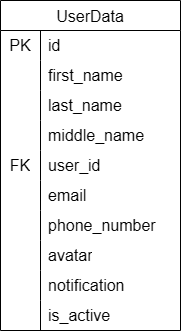
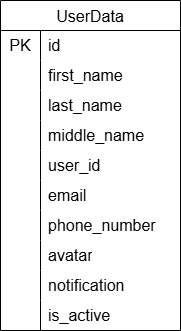
Поправил

diff --git a/S2/doc.md b/S2/doc.md
@@ -4,16 +4,16 @@
 
 ### Информация требуемая для создания профиля пользователя
 
-|Параметр|Обязательность|Тип|Ограничение|Значение по умолчанию|
-|----------|----------------|-----|-------------|----------------------|
-|first_name|Не обязательно|Строка|—|None|
-|last_name|Не обязательно|Строка|—|None|
-|middle_name|Не обязательно|Строка|—|None|
-|user_id|Обязательно|Целое число|Уникальный, внешний ключ|—|
-|email|Обязательно|Строка|Уникальный, формат почты|—|
-|phone_number|Не обязательно|Строка|Уникальный, формат телефона|None|
-|avatar|Не обязательно|Строка|формат URL|None|
-|notification|Не обязательно|Логический|—|True|
+|Параметр|Обязательность|Тип|Ограничение|Значение по умолчанию|Пояснение|
+|----------|----------------|-----|-------------|----------------------|-------------|
+|first_name|Не обязательно|Строка|—|None|Имя|
+|last_name|Не обязательно|Строка|—|None|Фамилия|
+|middle_name|Не обязательно|Строка|—|None|Отчество|
+|user_id|Обязательно|Целое число|Уникальный, внешний ключ|—|id пользователя|
+|email|Обязательно|Строка|Уникальный, формат почты|—|Почта|
+|phone_number|Не обязательно|Строка|Уникальный, формат телефона|None|Номер телефона|
+|avatar|Не обязательно|Строка|формат URL|None|Аватарка|
+|notification|Не обязательно|Логический|—|True|Статус уведомлений|
 
 ### Выходные данные
 
@@ -34,16 +34,16 @@
 
 ### Информация требуемая для изменения профиля по ID
 
-|Параметр|Обязательность|Тип|Ограничение|Значение по умолчанию|
-|----------|----------------|-----|-------------|----------------------|
-|first_name|Не обязательно|Строка|—|—|
-|last_name|Не обязательно|Строка|—|—|
-|middle_name|Не обязательно|Строка|—|—|
-|user_id|Не обязательно|Целое число|Уникальный, внешний ключ|—|
-|email|Не обязательно|Строка|Уникальный, формат почты|—|
-|phone_number|Не обязательно|Строка|Уникальный, формат телефона|—|
-|avatar|Не обязательно|Строка|формат URL|—|
-|notification|Не обязательно|Логический|—|—|
+|Параметр|Обязательность|Тип|Ограничение|Значение по умолчанию|Пояснение|
+|----------|----------------|-----|-------------|----------------------|-------------|
+|first_name|Не обязательно|Строка|—|—|Имя|
+|last_name|Не обязательно|Строка|—|—|Фамилия|
+|middle_name|Не обязательно|Строка|—|—|Отчество|
+|user_id|Не обязательно|Целое число|Уникальный, внешний ключ|—|id пользователя|
+|email|Не обязательно|Строка|Уникальный, формат почты|—|Почта|
+|phone_number|Не обязательно|Строка|Уникальный, формат телефона|—|Номер телефона|
+|avatar|Не обязательно|Строка|формат URL|—|Аватарка|
+|notification|Не обязательно|Логический|—|—|Статус уведомлений|
 
 ### Выходные данные
 
@@ -62,7 +62,7 @@
 
 ## Удаление профиля по ID
 
-Установит значение False в поле is_active в записи из таблицы UserData, а потом вернет True, если профиль был успешно переведен в неактивное состояние, иначе вернет False
+Установит значение False в поле is_active в записи из таблицы профилей, а потом вернет True, если профиль был успешно переведен в неактивное состояние, иначе вернет False
 
 ## Получить профиль по ID
 
@@ -85,7 +85,7 @@
 
 ### Информация требуемая для получения списка профилей
 
-|Параметр|Тип|Описание|Обязательность|Ограничение|Значение по умолчанию|
+|Параметр|Тип|Пояснение|Обязательность|Ограничение|Значение по умолчанию|
 |----------|-----|----------|----------|----------|----------|
 |first_name|Строка|Фильтр по имени|Не обязательно|—|—|
 |last_name|Строка|Фильтр по фамилии|Не обязательно|—|—|
@@ -110,4 +110,4 @@
 |is_active|Логический|
 
 ## ER-диаграмма
-![Диаграмма](erd.png)
+![ER-Диаграмма](erd.png)
